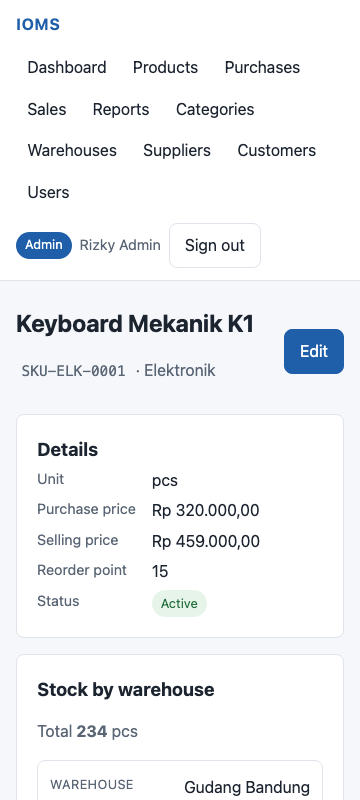
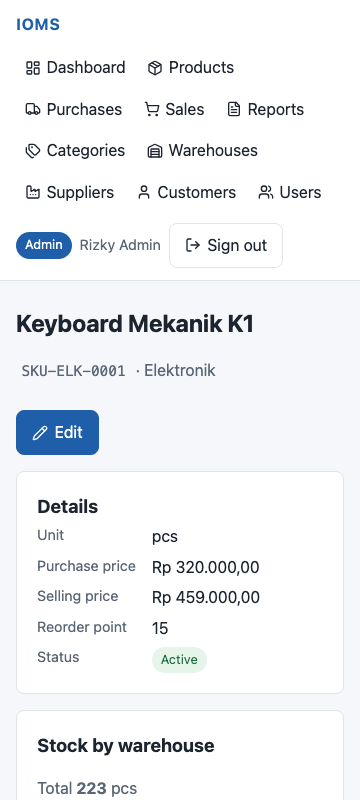
docs: re-capture the UI evidence, and close the AI verification register
The fourteen UI-01 screenshots were taken on 2026-09-04. On 2026-09-14 the
navigation gained icons and every form gained client-side validation, so the
committed evidence no longer showed the application it claimed to. All of them
are retaken rather than partially updated, plus two new captures of the
client-side validation messages, which had no evidence at all.

capture-screenshots.js is now committed alongside them, so the set can be
regenerated instead of being taken on trust. It uses Node 22's built-in
WebSocket -- no npm packages and no package.json -- and it asserts the viewport
it actually got before writing each PNG, because Chrome on macOS clamps a
window's CSS viewport to 500px and had already produced one misleading capture
that way.

The navigation now wraps to five rows at 360px rather than four; measured
rather than assumed, scrollWidth still equals clientWidth at every width and
the widest unbreakable element is 268px against a 328px budget.

Also:
  * AI-03 cleared -- index choices proven by the measured EXPLAIN plans in
    docs/quality/index-analysis.md.
  * AI-12 cleared -- approved_by != created_by proven for every role by five
    tests in SalesOrderServiceTest, including the pair that distinguishes
    "the person, not the role".
    The register is now empty.
  * test-results.md reported 102 tests, correct when written and superseded
    since. Re-run at the final state: 129 (123 unit + 6 integration), with the
[…]

diff --git a/docs/testing/capture-screenshots.js b/docs/testing/capture-screenshots.js
@@ -1,0 +1,122 @@
+/**
+ * Captures the UI-01 evidence screenshots in docs/testing/screenshots/.
+ *
+ * Committed so the evidence is reproducible rather than a set of PNGs nobody
+ * can regenerate. Node 22+ only: it uses the built-in WebSocket client, so
+ * there are no npm packages, no package.json, and nothing for §4 to object to.
+ * It is a documentation tool, not part of the application.
+ *
+ * Why it drives Chrome over the DevTools protocol instead of using
+ * --screenshot --window-size: Chrome on macOS clamps a window's CSS viewport to
+ * a 500px minimum, so --window-size=360 yields a 360px-wide PNG of a 500px
+ * layout -- a picture that understates the overflow being tested. Only
+ * Emulation.setDeviceMetricsOverride gives a genuine 360px layout viewport.
+ * `mobile` must stay false: with it true, Chrome applies its Android
+ * wide-viewport behaviour and expands the layout to fit overflowing content,
+ * hiding the very defect the 360px capture exists to catch.
+ *
+ * Usage (see docs/testing/screenshots.md for the full procedure):
+ *   node docs/testing/capture-screenshots.js <dir-of-saved-html> <out-dir>
+ */
+const fs = require('fs');
+const path = require('path');
+
+// A page is a saved HTML file plus an optional `before` expression evaluated in
+// the page before the shot. The `before` hook exists for one capture only: the
+// client-side validation messages do not exist in the served HTML -- they are
+// produced by form-validate.js when a submit is attempted -- so the only way to
+// evidence them is to attempt one.
+const PAGES = [
+    { file: 'login' },
+    { file: 'dashboard' },
+    { file: 'products' },
+    { file: 'products-empty' },
+    { file: 'product-detail' },
+    { file: 'sales-orders' },
+    { file: 'products-create' },
+    {
+        file: 'products-create',
+        as: 'products-create-invalid',
+        before: `document.querySelector('form.card--form')
+                     .dispatchEvent(new Event('submit', { cancelable: true, bubbles: true }))`,
+    },
+];
+const VIEWPORTS = [
+    { suffix: 'desktop', width: 1440, height: 900 },
+    { suffix: '360', width: 360, height: 800 },
+];
+
+const [, , htmlDir, outDir] = process.argv;
+if (!htmlDir || !outDir) {
+    console.error('usage: node capture-screenshots.js <html-dir> <out-dir>');
+    process.exit(2);
+}
+
+const sleep = (ms) => new Promise((r) => setTimeout(r, ms));
+
+async function main() {
+    const list = await (await fetch('http://127.0.0.1:9222/json/list')).json();
+    const target = list.find((t) => t.type === 'page');
+    if (!target) throw new Error('No Chrome page target on port 9222. Is Chrome running with --remote-debugging-port=9222?');
+
+    const ws = new WebSocket(target.webSocketDebuggerUrl);
+    await new Promise((resolve, reject) => {
+        ws.addEventListener('open', resolve, { once: true });
+        ws.addEventListener('error', reject, { once: true });
+    });
+
+    let id = 0;
+    const pending = new Map();
+    ws.addEventListener('message', (event) => {
+        const message = JSON.parse(event.data);
+        const resolver = pending.get(message.id);
+        if (resolver) {
+            pending.delete(message.id);
+            resolver(message.result);
+        }
+    });
+    const send = (method, params = {}) => new Promise((resolve) => {
+        const messageId = ++id;
+        pending.set(messageId, resolve);
+        ws.send(JSON.stringify({ id: messageId, method, params }));
+    });
+
+    for (const page of PAGES) {
+        for (const view of VIEWPORTS) {
+            await send('Emulation.setDeviceMetricsOverride', {
+                width: view.width, height: view.height,
+                deviceScaleFactor: 1, mobile: false,
+            });
+            const url = 'file://' + path.resolve(htmlDir, page.file + '.html');
+            await send('Page.navigate', { url });
+            // Fixed wait rather than a load event: the pages are static files
+            // whose only remote resource is the stylesheet, and the capture is
+            // presentation evidence, not a timing measurement.
+            await sleep(1200);
+
+            const probe = await send('Runtime.evaluate', {
+                expression: 'window.innerWidth', returnByValue: true,
+            });
+            const innerWidth = probe && probe.result ? probe.result.value : '?';
+            if (innerWidth !== view.width) {
+                throw new Error(
+                    `Viewport is ${innerWidth}, expected ${view.width}. The capture would ` +
+                    'misrepresent the layout; aborting rather than writing a misleading PNG.',
+                );
+            }
+
+            if (page.before) {
+                await send('Runtime.evaluate', { expression: page.before });
+                await sleep(300);
+            }
+
+            const shot = await send('Page.captureScreenshot', { format: 'png' });
+            const file = path.join(outDir, `${page.as || page.file}-${view.suffix}.png`);
+            fs.writeFileSync(file, Buffer.from(shot.data, 'base64'));
+            console.log(`${file}  (layout viewport ${innerWidth}px)`);
+        }
+    }
+    ws.close();
+}
+
+main().catch((error) => { console.error(error.message); process.exit(1); });

diff --git a/ai-usage-log.md b/ai-usage-log.md
@@ -569,22 +569,74 @@ library, having established that §4 permits a credited one.
   tests green, PHPStan clean, PSR-12 clean and zero ledger drift. Torn down afterwards, leaving
   no containers or volumes.
 
+### AI-38 · Re-capturing the UI evidence, and committing the tool that makes it
+- **Prompt summary:** asked what remained outstanding before release.
+- **Found, not suggested:** the fourteen UI-01 screenshots were captured on 2026-09-04; the
+  navigation gained icons and every form gained client-side validation on 2026-09-14. The
+  evidence no longer showed the application. §8.2 treats evidence that does not match the code
+  as a critical failure where the class diagram is concerned, and screenshots are the same kind
+  of claim about the same code.
+- **Output accepted:** all sixteen PNGs re-captured (two new ones for the validation messages),
+  and `docs/testing/capture-screenshots.js` committed so the set can be regenerated instead of
+  being taken on trust. Node 22's built-in WebSocket only — no npm packages, no `package.json`,
+  nothing for §4 to object to, and it is a documentation tool rather than part of the app.
+- **Output rejected:** re-capturing only the pages whose appearance "obviously" changed. Every
+  authenticated page carries the navigation, so every one of them had changed.
+- **Verified:** the script now reads `window.innerWidth` back after each viewport override and
+  aborts if it is not the width requested, rather than writing a PNG that misrepresents the
+  layout — the failure mode that the macOS 500px clamp had already produced once. Both new
+  captures were opened and read, not merely confirmed to exist.
+- **Observed and deliberately not "fixed":** the client-side messages read "Sku is required."
+  and "Category id is required.". That is `Validator::label()`'s wording, reproduced exactly.
+  Making the browser friendlier on its own would give one rule two wordings, which is the
+  duplication the design exists to avoid. Documented in `docs/testing/screenshots.md` instead.
+
+### AI-39 · Closing the register, and refreshing stale numbers
+- **AI-03 and AI-12 cleared** with the evidence recorded above. The register is now empty.
+- **`docs/testing/test-results.md` reported 102 tests**, correct when written and superseded
+  since. Re-run at the final state and updated to 129 (123 unit + 6 integration), with the
+  supersession stated in the document rather than silently overwritten.
+- **Left alone deliberately:** `docs/quality/refactor-log.md` still says "100 tests passed
+  before and after all three refactors". That is a historical statement about when R1-R3
+  happened and is accurate; rewriting it to 129 would falsify the record.
+
 ---
 
 ## Outstanding verification register
 
 Items where AI output is accepted as understanding but **not yet proven in this project**.
-Each must move to verified, or be removed, before final release.
+Each must move to verified, or be removed, before final release. As of 2026-09-15 every entry has
+been cleared; the cleared items are kept below rather than deleted, because what was once taken
+on trust and how it was later proven is the point of the register.
 
 **Cleared 2026-09-02:** AI-05 / AI-11 — `SELECT … FOR UPDATE` prevents oversell. Now proven by
 `Tests\Integration\StockMovementTest::testConcurrentIssuesCannotOversell` and
 `::testASecondTransactionCannotReadTheSameStockRowWhileItIsLocked`, both of which were confirmed
 to fail when the `FOR UPDATE` clause is removed.
 
-| Ref | Claim awaiting proof | Proof required |
-|---|---|---|
-| AI-03 | Chosen indexes serve the real queries | `EXPLAIN` on dashboard/report queries, output filed in `docs/quality/` |
-| AI-12 | `approved_by != created_by` enforced for every role | Unit test in Phase 5: Admin approving their own order is rejected |
+**Cleared 2026-09-15:** AI-03 — chosen indexes serve the real queries. Proven by
+`docs/quality/index-analysis.md`, which files measured `EXPLAIN` plans for the dashboard, report,
+list and stock queries. The analysis also **contradicted an earlier claim of my own**: ADR-002
+described the locking read as avoiding a table scan, while the measured plan shows `ref` on
+`idx_stock_warehouse` over 35 rows. The ADR was corrected to match the measurement.
+
+**Cleared 2026-09-15:** AI-12 — `approved_by != created_by` enforced for every role, Admin
+included. Proven by `Tests\Unit\SalesOrderServiceTest`:
+
+| Test | What it pins down |
+|---|---|
+| `testSalesCannotApproveAnyOrder` | Sales has no approval right at all |
+| `testSalesCannotApproveEvenTheirOwnOrder` | §1.2's explicit "tidak, meski order miliknya sendiri" |
+| `testWarehouseStaffCannotApprove` | Approval is not a warehouse activity |
+| `testAnAdminCannotApproveAnOrderTheyRaisedThemselves` | **The rule is about the person, not the role** — decision D2 |
+| `testADifferentAdminCanApproveThatSameOrder` | …and that the rule blocks the right thing only, so the flow is not deadlocked |
+
+The last two are the pair that matters: either alone would be satisfied by a wrong
+implementation. Together they show the check is `approved_by != created_by` and not "Admins may
+always approve" or "orders raised by an Admin can never be approved". The seed carries a second
+Admin (`admin2@ioms.test`) specifically so the second case is demonstrable live.
+
+**The register is now empty.** No AI-derived claim in this project is unproven.
 
 ---
 

diff --git a/docs/testing/screenshots.md b/docs/testing/screenshots.md
@@ -1,8 +1,15 @@
 # UI screenshots (UI-01, VIEW-01)
 
-Captured against the running Docker stack at `http://localhost:8080` on 2026-09-04, signed in as
-`admin@ioms.test` (role `Admin`). Fourteen PNGs, two viewports per page: **desktop 1440x900** and
+Captured against the running Docker stack at `http://localhost:8080`, signed in as
+`admin@ioms.test` (role `Admin`). Sixteen PNGs, two viewports per page: **desktop 1440x900** and
 **mobile 360x800**. All files live in `docs/testing/screenshots/`.
+
+**Re-captured 2026-09-15.** The first set was taken on 2026-09-04 and went stale when the
+navigation gained icons and every form gained client-side validation. Screenshots that no longer
+match the running application are misleading evidence, so all of them were retaken rather than
+partially updated, and one new page was added for the validation messages. The capture is now
+driven by a committed script, [`capture-screenshots.js`](capture-screenshots.js), so an assessor
+can regenerate the set instead of taking these on trust.
 
 ## Inventory
 
@@ -22,6 +29,8 @@ Captured against the running Docker stack at `http://localhost:8080` on 2026-09-
 | `sales-orders-360.png` | `/sales-orders` | 360x800 | Order rows as stacked cards; `Cancelled` status badge visible. |
 | `products-create-desktop.png` | `/products/create` | 1440x900 | Create-product form, constrained-width card. |
 | `products-create-360.png` | `/products/create` | 360x800 | Same form, full-width fields, labels above inputs. |
+| `products-create-invalid-desktop.png` | `/products/create` | 1440x900 | **Client-side validation (VAL-01)**: an empty submit blocked by `form-validate.js`, each field marked and named. |
+| `products-create-invalid-360.png` | `/products/create` | 360x800 | The same messages at mobile width. |
 
 ## What the 360px captures actually show about UI-01
 
@@ -66,9 +75,32 @@ way. The filter bar, buttons, badges and pagination all fit as well.
 
 ### The navigation, after the fix
 
-`dashboard-360.png` and `products-360.png` show the ten Admin links wrapped across four rows,
+`dashboard-360.png` and `products-360.png` show the ten Admin links wrapped across five rows,
 with the role badge, user name and Sign out button below them. Nothing is clipped. This is the
 worst case: Sales and Warehouse Staff see fewer links and therefore fewer rows.
+
+**Five rows, not the four in the original capture.** Each link now carries an icon, which widens
+it. That is exactly the change that could have reintroduced the overflow this section documents,
+so it was measured rather than eyeballed: `document.scrollWidth == document.clientWidth` at 485,
+753 and 1425 CSS pixels, and the widest element that cannot be broken across lines is the
+badge/name/Sign-out block at **268px**, against a **328px** budget at 360px (360 minus the 16px
+side gutters). Wrapping onto one more row is the layout absorbing the extra width correctly;
+no page scrolls sideways at any width.
+
+### The validation messages
+
+`products-create-invalid-*.png` show what `form-validate.js` renders when the form is submitted
+empty: a red border and tint on each offending control, and a message naming it. Two things in
+those images are worth pointing at during the defence:
+
+- The wording — "Sku is required.", "Category id is required." — is derived from the field
+  **name** by the same rule `App\Support\Validator::label()` uses on the server, which is why it
+  reads slightly awkwardly. That is deliberate: the sentence is identical whether the check ran
+  in the browser or after the POST, and the alternative (friendlier text in the browser only)
+  would mean two wordings for one rule.
+- Colour is never the only signal. Each message is real text, and the control also carries
+  `aria-invalid="true"` with `aria-describedby` pointing at the message, so the failure is
+  available to a screen reader and to anyone who cannot distinguish the red border (UI-01).
 
 ## How these were captured
 
@@ -106,15 +138,20 @@ done
   --headless=new --disable-gpu --hide-scrollbars --no-sandbox \
   --remote-debugging-port=9222 --user-data-dir=/tmp/agent5/cdcdp about:blank &
 
-# 5. Screenshot each file at both viewports (shot.js, below)
-node shot.js
+# 5. Screenshot each file at both viewports
+node docs/testing/capture-screenshots.js /tmp/agent5 docs/testing/screenshots
 ```
 
-`shot.js` drives one Chrome tab over the DevTools protocol using Node 22's built-in `WebSocket`
-(no npm packages). For each page it sets the viewport with
+`capture-screenshots.js` (committed next to this document) drives one Chrome tab over the
+DevTools protocol using Node 22's built-in `WebSocket` (no npm packages, no `package.json` — it
+is a documentation tool, not part of the application). For each page it sets the viewport with
 `Emulation.setDeviceMetricsOverride { width, height, deviceScaleFactor: 1, mobile: false }`,
 navigates to the `file://` URL, waits 1.2s, then calls `Page.captureScreenshot` and writes the
 base64 PNG. The two viewports are `1440x900` and `360x800`.
+
+The script **asserts the viewport it got**: it reads `window.innerWidth` back and aborts if it is
+not the width requested, rather than writing a PNG that misrepresents the layout. That check
+exists because of the clamp described next, which produced exactly such a picture once.
 
 ### Why `--window-size=360,800` was not used
 

diff --git a/docs/testing/test-results.md b/docs/testing/test-results.md
@@ -43,28 +43,33 @@ PHPUnit 10.5.64 by Sebastian Bergmann and contributors.
 Runtime:       PHP 8.2.33
 Configuration: /var/www/html/phpunit.xml
 
-...............................................................  63 / 102 ( 61%)
-.......................................                         102 / 102 (100%)
+...............................................................  63 / 129 ( 48%)
+............................................................... 126 / 129 ( 97%)
+...                                                             129 / 129 (100%)
 
-Time: 00:06.176, Memory: 10.00 MB
+Time: 00:07.827, Memory: 10.00 MB
 
-OK (102 tests, 223 assertions)
+OK (129 tests, 269 assertions)
 ```
+
+*(Re-run 2026-09-15 at the final state of the code. The figures recorded here earlier — 102
+tests, 223 assertions — were correct when written and were superseded by later work; a results
+document that reports a number the suite no longer produces is not evidence of anything.)*
 
 Run separately, so the split between the two suites is visible:
 
 | Suite | Command | Result |
 |---|---|---|
-| unit | `vendor/bin/phpunit --testsuite unit` | `OK (96 tests, 205 assertions)` |
+| unit | `vendor/bin/phpunit --testsuite unit` | `OK (123 tests, 251 assertions)` |
 | integration | `vendor/bin/phpunit --testsuite integration` | `OK (6 tests, 18 assertions)` |
 
-96 + 6 = 102. Nothing is skipped, incomplete or marked risky; PHPUnit prints a bare `OK`, which
+123 + 6 = 129. Nothing is skipped, incomplete or marked risky; PHPUnit prints a bare `OK`, which
 it does not do when any test is skipped.
 
-The unit tests span eight logic areas — `AuthServiceTest`, `UserServiceTest`,
-`ProductServiceTest`, `StockServiceTest`, `PurchaseOrderServiceTest`, `SalesOrderServiceTest`,
-`ReportServiceTest`, `PaginationTest`, `CsvWriterTest` — comfortably above the required minimum
-of six tests across three areas. The integration suite is one file,
+The unit tests span ten logic areas — `AuthServiceTest`, `UserServiceTest`, `ProductServiceTest`,
+`StockServiceTest`, `PurchaseOrderServiceTest`, `SalesOrderServiceTest`, `ReportServiceTest`,
+`PaginationTest`, `CsvWriterTest`, `ValidatorTest` — comfortably above the required minimum of
+six tests across three areas. The integration suite is one file,
 `tests/Integration/StockMovementTest.php`, holding six tests against real MySQL.
 
 ### 1.2 Proof the unit suite needs no database (TS-TEST-2, TS-TEST-3, TS-TEST-4)
